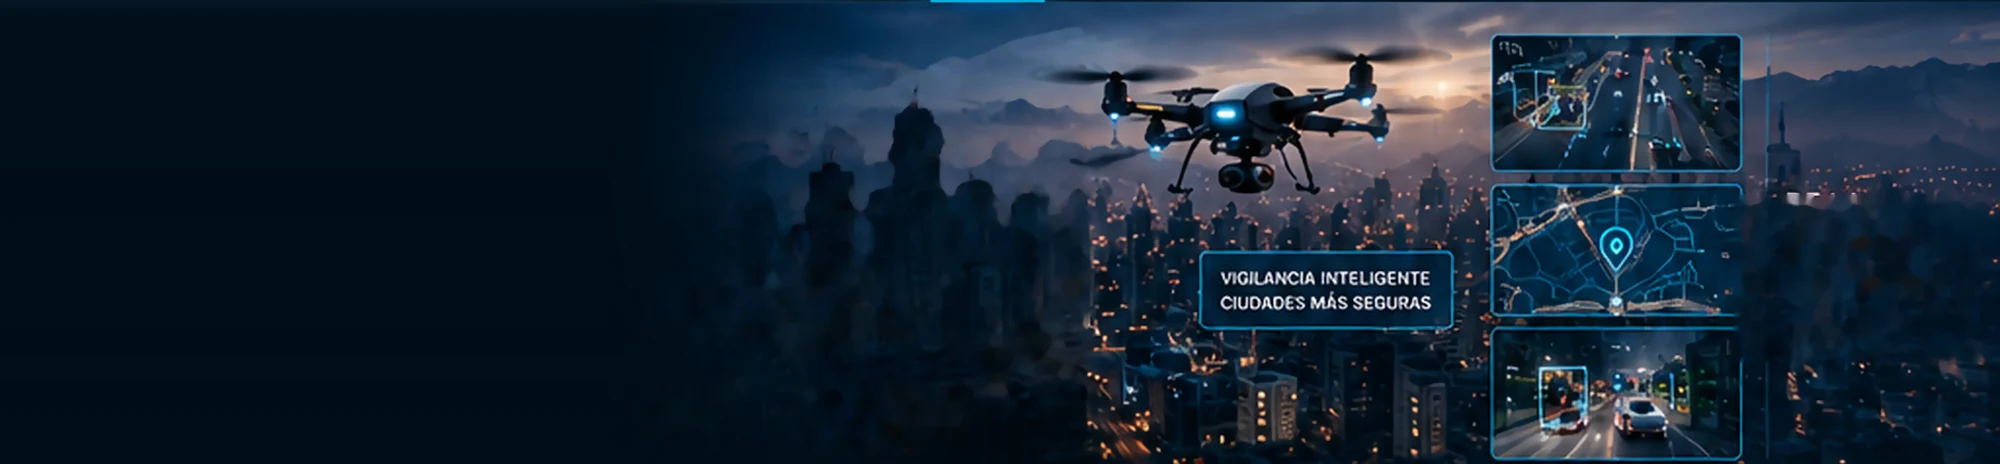
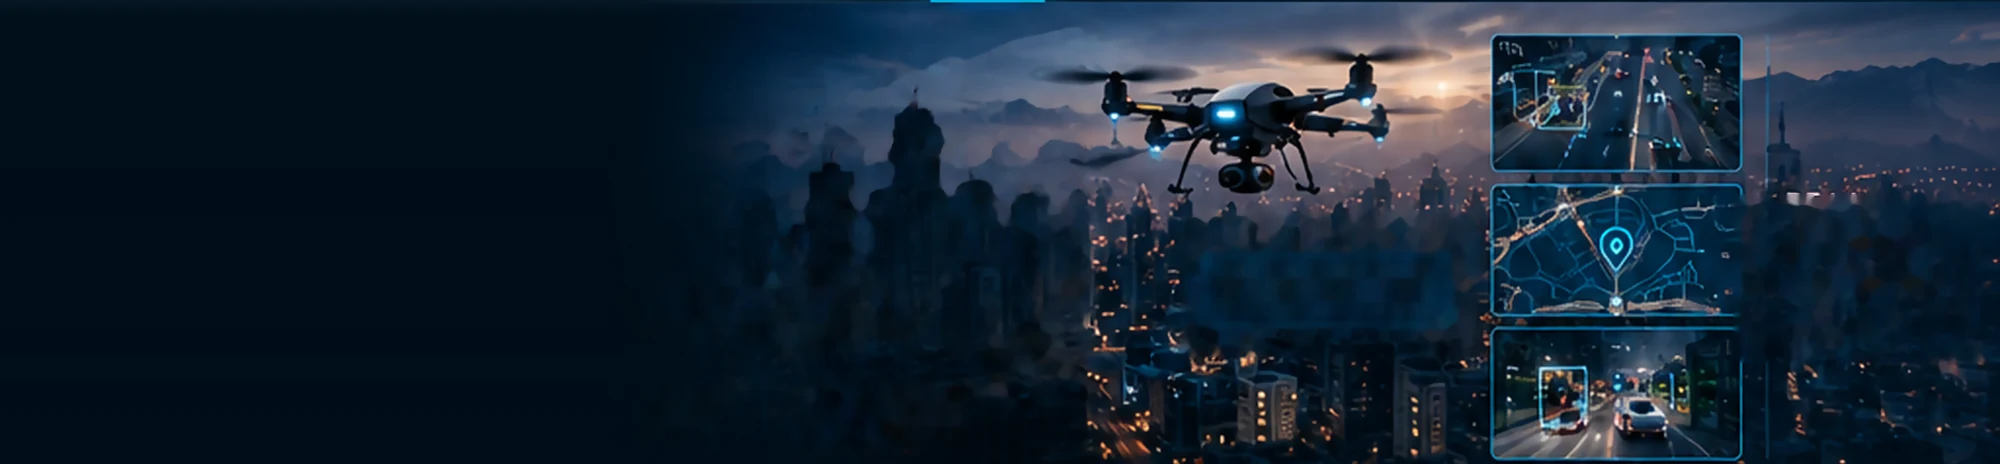
Ajusta las bandas de llamada y las insignias al arte del diseño
Las bandas de Soluciones y Tecnología apuntaban a la franja de tarjetas
en lugar de a la llamada final. Las insignias de Sectores y Casos de uso
salían dos veces, horneadas en el arte y como elemento del DOM: ahora se
borran del arte y la del DOM flota en la coordenada del diseño. Se
retiran las miniaturas de portada de Casos de uso, que duplicaban los
paneles ya presentes en la composición.

Changed region(s): [[0.589, 0.4526, 0.744, 0.7845]]

diff --git a/src/componentes/secciones/InsigniaPortada.module.css b/src/componentes/secciones/InsigniaPortada.module.css
@@ -14,6 +14,21 @@
   text-align: left;
 }
 
+.flotante {
+  position: absolute;
+  left: var(--insignia-izquierda);
+  top: var(--insignia-arriba);
+  z-index: 1;
+  margin: 0;
+}
+
+@media (max-width: 1049.98px) {
+  .flotante {
+    position: static;
+    align-self: flex-start;
+  }
+}
+
 @media (max-width: 899.98px) {
   .insignia {
     align-self: flex-start;

diff --git a/herramientas/arte/extraer.py b/herramientas/arte/extraer.py
@@ -13,8 +13,8 @@ PORTADAS = {
     'inicio': dict(fin=599, panel=548, zonas=[(30, 96, 1000, 596), (1420, 150, 1830, 596)]),
     'soluciones': dict(fin=681, panel=545, zonas=[(30, 96, 940, 678), (1560, 435, 1830, 678)]),
     'tecnologia': dict(fin=718, panel=545, zonas=[(30, 96, 940, 715), (1400, 360, 1830, 715)]),
-    'sectores': dict(fin=555, panel=560, zonas=[(30, 96, 1000, 552), (1395, 130, 1830, 552)]),
-    'casos-de-uso': dict(fin=516, panel=560, zonas=[(30, 96, 1000, 513), (1600, 270, 1830, 420)]),
+    'sectores': dict(fin=555, panel=560, zonas=[(30, 96, 1000, 552), (1395, 130, 1830, 552), (985, 220, 1215, 340)]),
+    'casos-de-uso': dict(fin=516, panel=560, zonas=[(30, 96, 1000, 513), (1600, 270, 1830, 420), (1090, 285, 1360, 415)]),
     'nosotros': dict(fin=600, panel=545, zonas=[(30, 96, 940, 597), (1580, 380, 1830, 597)]),
     'recursos': dict(fin=667, panel=545, zonas=[(30, 96, 980, 664), (1420, 280, 1830, 664)]),
 }
@@ -90,16 +90,16 @@ BANDAS = {
                           zonas=[(20, 599, 780, 846), (1560, 599, 1830, 846)]),
     'llamada-inicio': dict(pagina='inicio', ini=2270, fin=2510, panel=430,
                            zonas=[(20, 2270, 900, 2510), (1300, 2270, 1830, 2510)]),
-    'llamada-soluciones': dict(pagina='soluciones', ini=1466, fin=1722, panel=880,
-                               zonas=[(20, 1466, 900, 1722), (940, 1466, 1830, 1722, 34)]),
-    'llamada-tecnologia': dict(pagina='tecnologia', ini=1500, fin=1660, panel=880,
-                               zonas=[(20, 1500, 900, 1660), (940, 1500, 1830, 1660, 34)]),
+    'llamada-soluciones': dict(pagina='soluciones', ini=1962, fin=2268, panel=430,
+                               zonas=[(20, 1962, 935, 2268), (930, 1962, 1830, 2268, 30)]),
+    'llamada-tecnologia': dict(pagina='tecnologia', ini=1958, fin=2270, panel=430,
+                               zonas=[(20, 1958, 935, 2270), (930, 1958, 1830, 2270, 30)]),
     'llamada-sectores': dict(pagina='sectores', ini=2307, fin=2508, panel=430,
                              zonas=[(20, 2307, 900, 2508), (940, 2307, 1830, 2508, 34)]),
     'llamada-casos-de-uso': dict(pagina='casos-de-uso', ini=2278, fin=2450, panel=430,
                                  zonas=[(20, 2278, 900, 2450), (940, 2278, 1830, 2450, 34)]),
-    'llamada-nosotros': dict(pagina='nosotros', ini=2257, fin=2464, panel=430,
-                             zonas=[(20, 2257, 900, 2464), (1250, 2257, 1830, 2464)]),
+    'llamada-nosotros': dict(pagina='nosotros', ini=2255, fin=2448, panel=430,
+                             zonas=[(20, 2255, 900, 2448), (1250, 2255, 1830, 2448)]),
     'llamada-recursos': dict(pagina='recursos', ini=2225, fin=2455, panel=430,
                              zonas=[(20, 2225, 900, 2455), (1250, 2225, 1830, 2455)]),
 }
